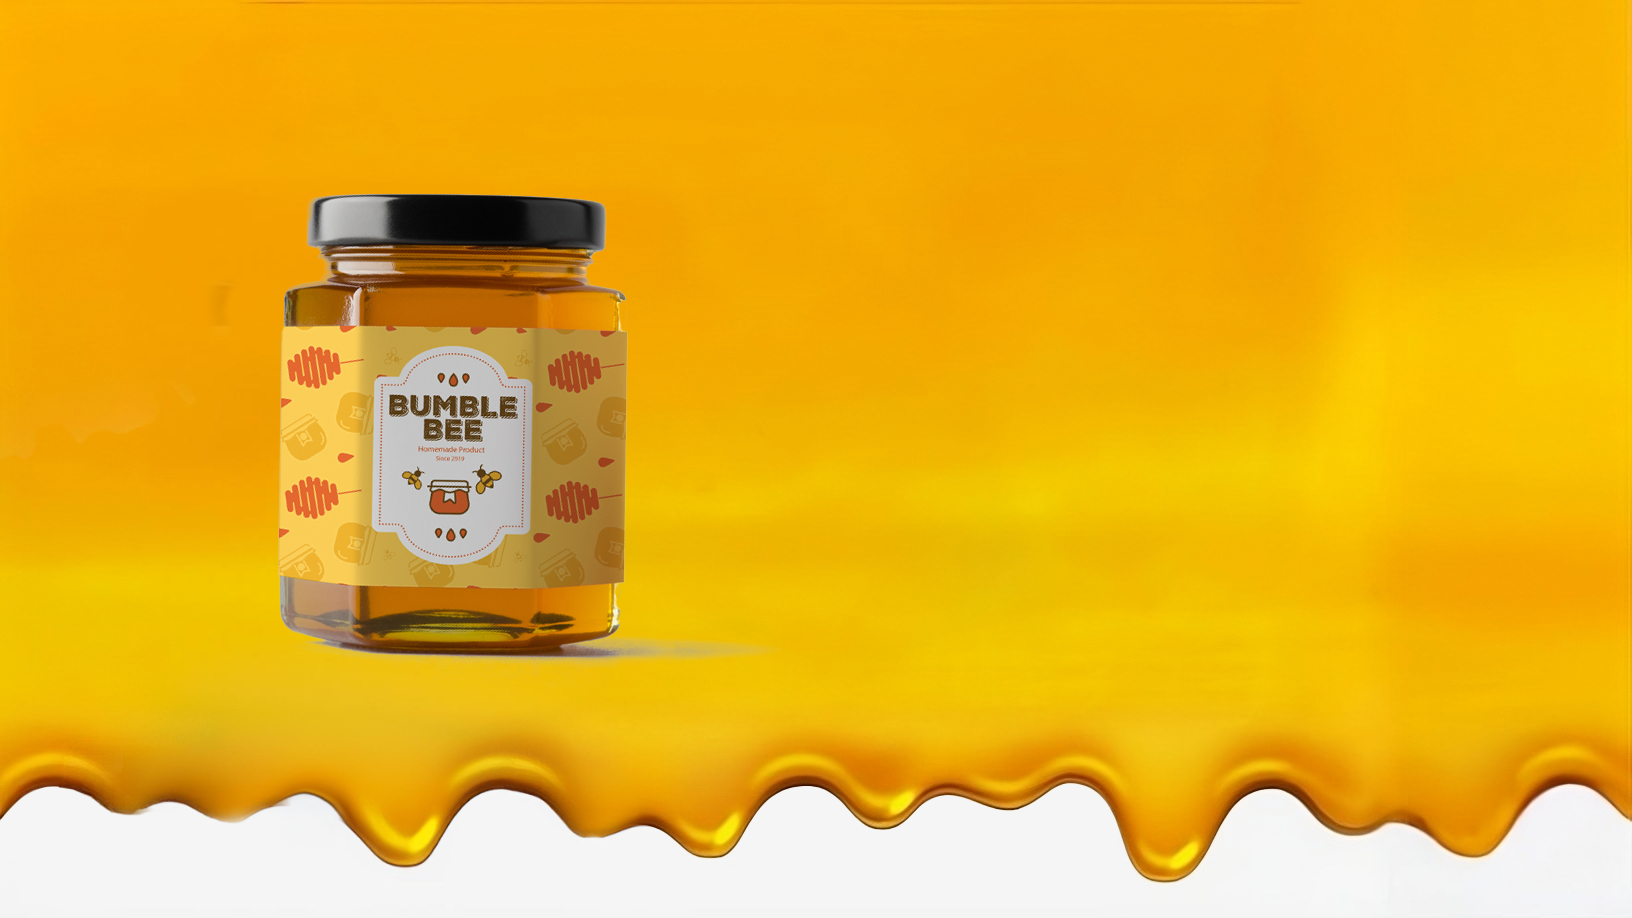
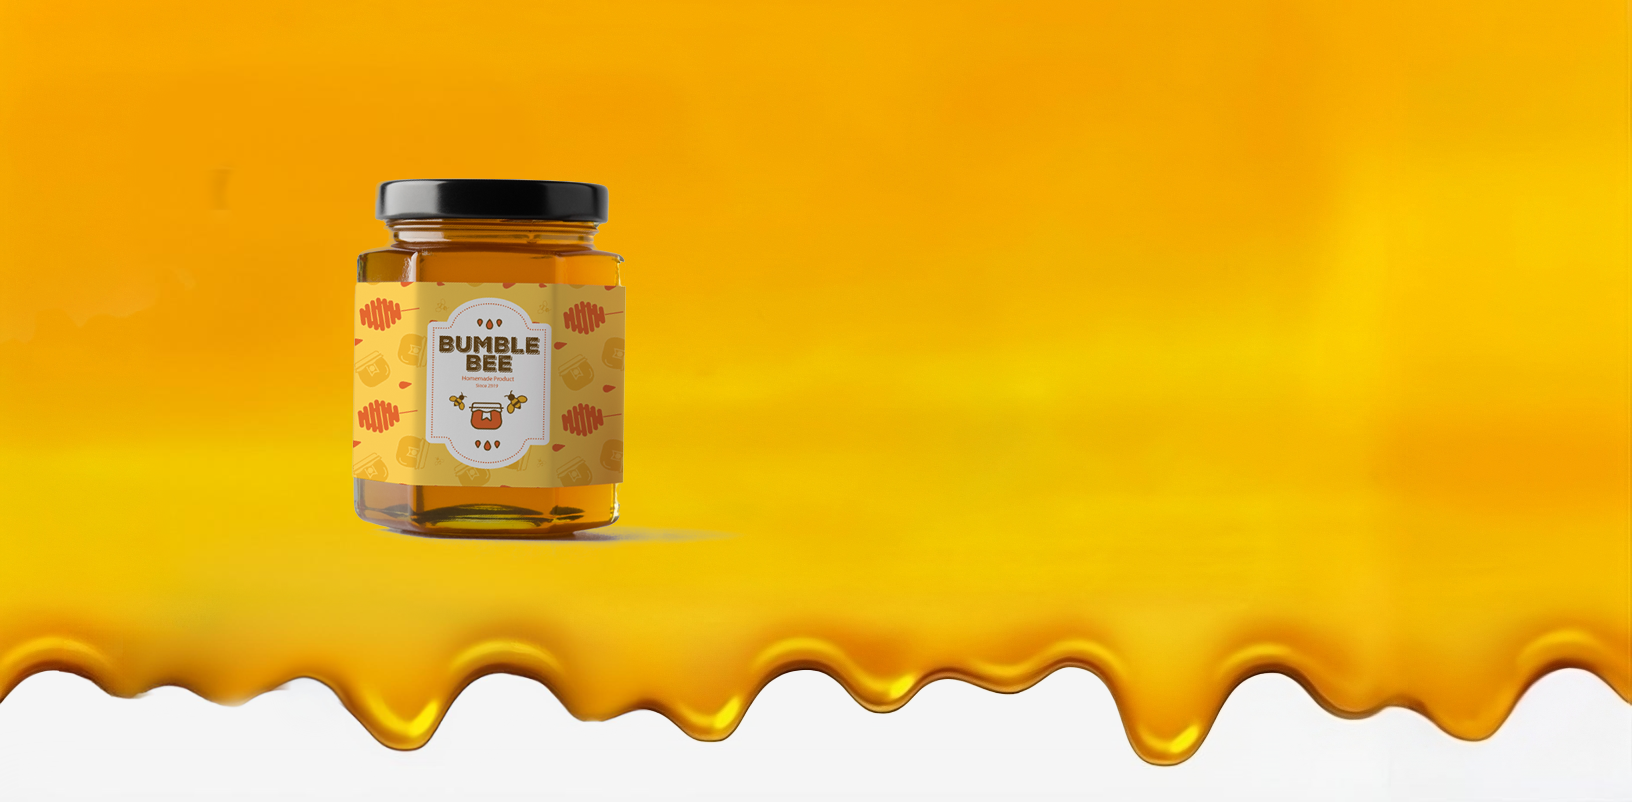
update

Changed region(s): [[0.0, 0.187, 0.875, 0.9663], [0.875, 0.7481, 1.0, 0.9352]]

diff --git a/index.html b/index.html
@@ -32,7 +32,7 @@
     <meta property="og:type" content="website">
   <meta data-intl-tel-input-cdn-path="intlTelInput/"></head>
   <body data-home-page="Home.html" data-home-page-title="Home" data-path-to-root="./" data-include-products="false" class="u-body u-xl-mode" data-lang="en">
-    <section class="u-clearfix u-image u-section-1" id="sec-d374" data-image-width="1632" data-image-height="918">
+    <section class="u-clearfix u-image u-section-1" id="sec-d374" data-image-width="1632" data-image-height="802">
       <div class="u-clearfix u-sheet u-sheet-1">
         <div class="u-align-center u-expanded-width u-grey-5 u-radius u-shape u-shape-round u-shape-1"></div>
         <img class="u-image u-image-default u-image-1" src="images/logo.png" alt="" data-image-width="752" data-image-height="173">
@@ -217,7 +217,6 @@
         <p class="u-align-left u-custom-font u-font-montserrat u-text u-text-8"> Our honey is harvested from our hives with care and attention to detail</p>
       </div>
     </section>
-    
     
     
     

diff --git a/Home.css b/Home.css
@@ -1,10 +1,10 @@
  .u-section-1 {
   background-image: url("images/mainbg.png");
-  background-position: 50% 50%;
+  background-position: 32.61% 50%;
 }
 
 .u-section-1 .u-sheet-1 {
-  min-height: 841px;
+  min-height: 714px;
 }
 
 .u-section-1 .u-shape-1 {
@@ -87,7 +87,7 @@
 
 @media (max-width: 1199px) {
   .u-section-1 .u-sheet-1 {
-    min-height: 693px;
+    min-height: 589px;
   }
 
   .u-section-1 .u-shape-1 {
@@ -111,7 +111,7 @@
 
 @media (max-width: 991px) {
   .u-section-1 .u-sheet-1 {
-    min-height: 531px;
+    min-height: 451px;
   }
 
   .u-section-1 .u-repeater-1 {
@@ -132,7 +132,7 @@
 
 @media (max-width: 767px) {
   .u-section-1 .u-sheet-1 {
-    min-height: 398px;
+    min-height: 338px;
   }
 
   .u-section-1 .u-repeater-1 {
@@ -151,10 +151,6 @@
 }
 
 @media (max-width: 575px) {
-   .u-section-1 {
-    background-position: 18.22% 50%;
-  }
-
   .u-section-1 .u-sheet-1 {
     min-height: 472px;
   }

diff --git a/Home.html b/Home.html
@@ -32,7 +32,7 @@
     <meta property="og:type" content="website">
   <meta data-intl-tel-input-cdn-path="intlTelInput/"></head>
   <body data-path-to-root="./" data-include-products="false" class="u-body u-xl-mode" data-lang="en">
-    <section class="u-clearfix u-image u-section-1" id="sec-d374" data-image-width="1632" data-image-height="918">
+    <section class="u-clearfix u-image u-section-1" id="sec-d374" data-image-width="1632" data-image-height="802">
       <div class="u-clearfix u-sheet u-sheet-1">
         <div class="u-align-center u-expanded-width u-grey-5 u-radius u-shape u-shape-round u-shape-1"></div>
         <img class="u-image u-image-default u-image-1" src="images/logo.png" alt="" data-image-width="752" data-image-height="173">
